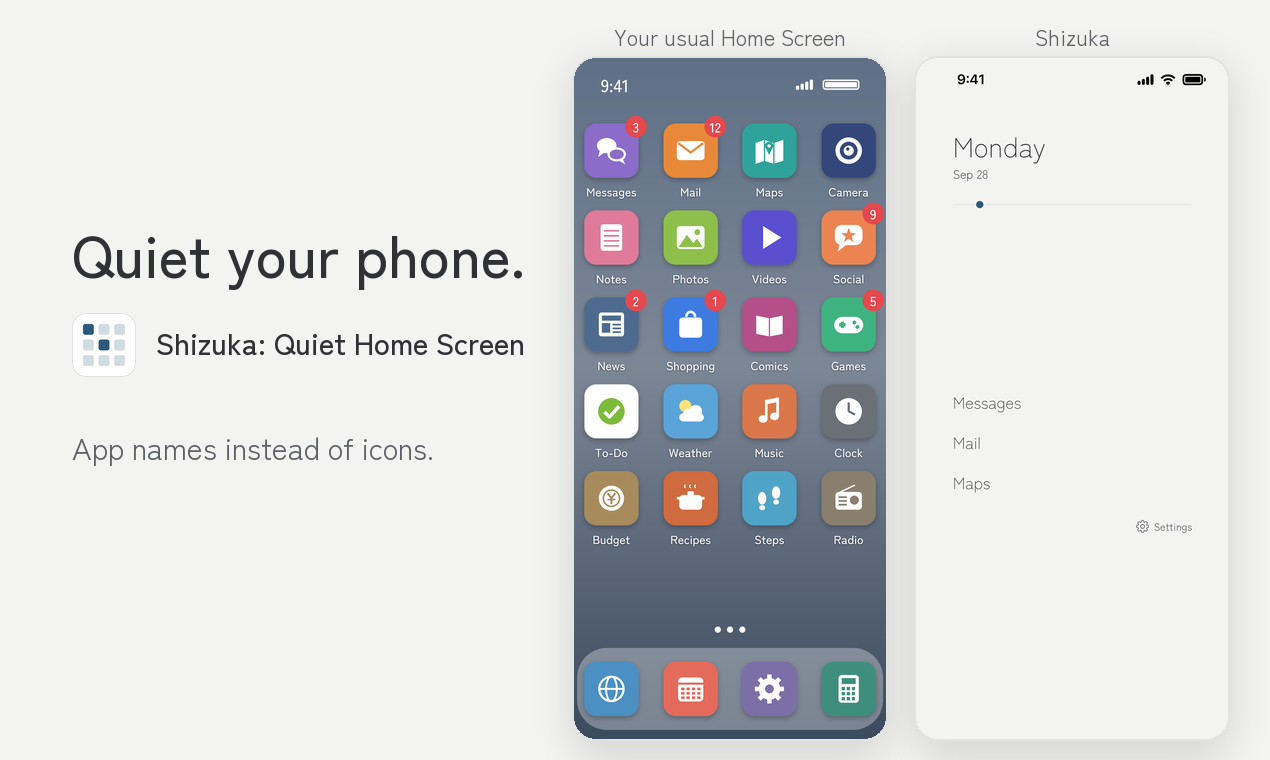
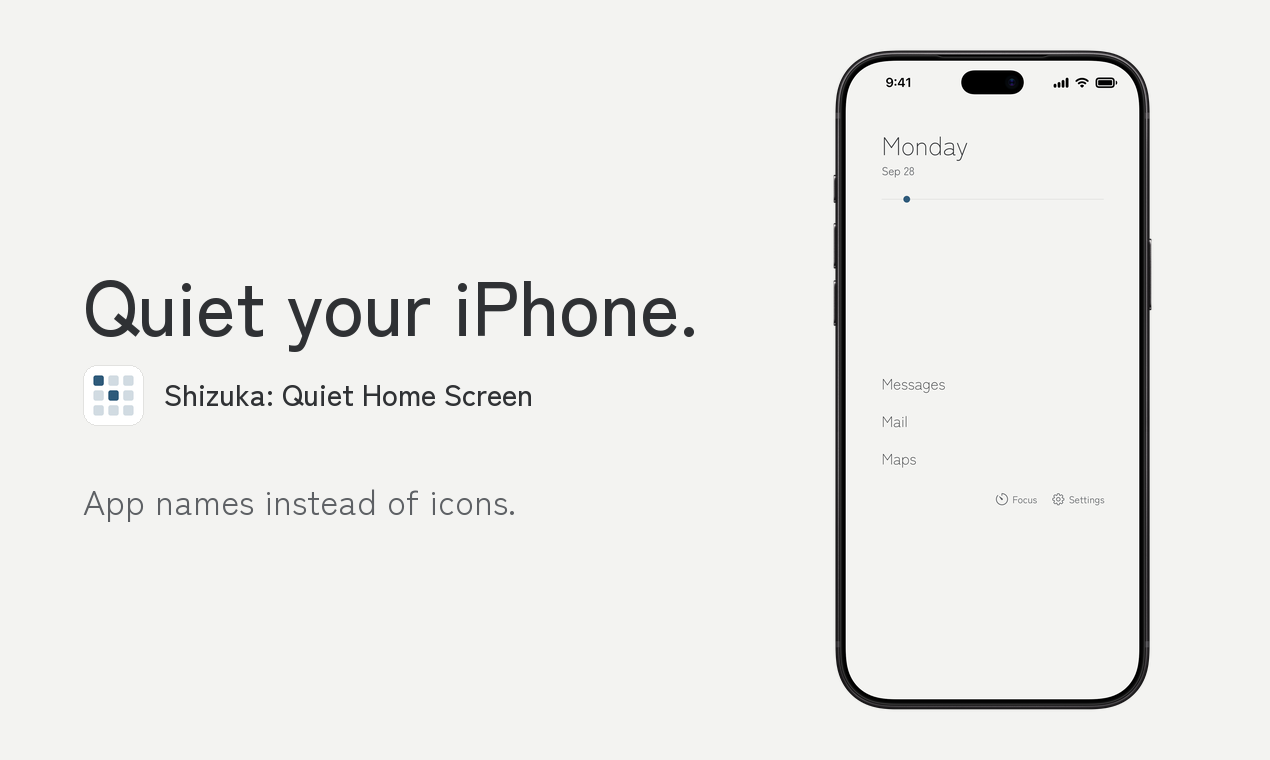
RD-44: 共有画像と報道向けの画像を Apple の枠としずかの画面だけに差し替え、説明の文を直す(SH-14)
点検表 promo-rules v1 の G1・H1〜H3・P1・P3・T1・T3 に合わせる(本人の決定 2026-11-05 22時台「公開済みは画像だけ差し替える」)。
- og/ja.png・og/en.png・press/images/{ja,en}/01-before-after.jpg・press/images/gallery/01.png:
  架空のアイコンの格子・ドック・ページの点の「いつものホーム画面」との比べ絵をやめ、
  Apple 配布の Product Bezels(iPhone 18、切らない・傾けない・影なし、字は枠の横)に
  1.1 の描き直しの画面(10_home_free_store_day、状態バー満タン)だけを入れた
- 見出し「スマホを、静かに。」→「iPhone を、静かに。」、"Quiet your phone." → "Quiet your iPhone."(T2)
- 説明と OGP の文の「iOSアプリ」→「iPhone アプリ」、"the iOS app" → "the iPhone app"(T1)。規約・プライバシーの本文は変えない
- og:image:alt と報道向けの画像の説明を新しい絵に合わせ、「架空の絵」の注記を外した
- 規約とポリシーの頁(日英)と報道向けの頁に、iPhone・App Store の商標の注記(T3)

diff --git a/docs/press/index.html b/docs/press/index.html
@@ -14,7 +14,7 @@
 <meta property="og:image" content="https://ryodevapp.github.io/shizuka-home/og/ja.png">
 <meta property="og:image:width" content="1200">
 <meta property="og:image:height" content="630">
-<meta property="og:image:alt" content="いつものホーム画面と、アプリの名前だけを並べたしずかなホーム画面">
+<meta property="og:image:alt" content="iPhone の中の、アプリの名前だけを並べたしずかなホーム画面の画面">
 <meta property="og:locale" content="ja_JP">
 <meta name="twitter:card" content="summary_large_image">
 <style>
@@ -103,20 +103,18 @@ video { width: 100%; max-width: 270px; height: auto; display: block; margin: 0 0
 <video src="video/before-after-en.mp4" controls muted playsinline preload="metadata"></video>
 <p><a href="video/before-after-en.mp4" download>ダウンロード / Download</a></p>
 <h2>告知の画像(日本語、1080×1350)</h2>
-<p>「いつものホーム画面」の絵は、説明のために作った架空のものです。</p>
 <div class="grid">
-<a href="images/ja/01-before-after.jpg"><img src="images/ja/01-before-after.jpg" alt="いつものホーム画面と、アプリの名前だけを並べたしずかなホーム画面" loading="lazy"></a>
+<a href="images/ja/01-before-after.jpg"><img src="images/ja/01-before-after.jpg" alt="iPhone の中の、アプリの名前だけを並べたしずかなホーム画面の画面" loading="lazy"></a>
 <a href="images/ja/03-review.jpg"><img src="images/ja/03-review.jpg" alt="使った時間をふりかえる画面。連続記録や順位は出しません" loading="lazy"></a>
 </div>
 <h2>Launch images (English, 1080×1350)</h2>
-<p>The "usual Home Screen" is an illustration.</p>
 <div class="grid">
-<a href="images/en/01-before-after.jpg"><img src="images/en/01-before-after.jpg" alt="A usual Home Screen next to Shizuka, which shows app names only" loading="lazy"></a>
+<a href="images/en/01-before-after.jpg"><img src="images/en/01-before-after.jpg" alt="Shizuka on iPhone, which shows app names only" loading="lazy"></a>
 <a href="images/en/03-review.jpg"><img src="images/en/03-review.jpg" alt="The Review screen, with no streaks or rankings" loading="lazy"></a>
 </div>
 <h2>Gallery (English, 1270×760)</h2>
 <div class="grid">
-<a href="images/gallery/01.png"><img src="images/gallery/01.png" alt="Quiet your phone: a usual Home Screen next to Shizuka" loading="lazy"></a>
+<a href="images/gallery/01.png"><img src="images/gallery/01.png" alt="Quiet your iPhone: Shizuka shows app names instead of icons" loading="lazy"></a>
 <a href="images/gallery/02.png"><img src="images/gallery/02.png" alt="A breath before an app opens, with Not now and Open" loading="lazy"></a>
 <a href="images/gallery/03.png"><img src="images/gallery/03.png" alt="Just names, no icons: the widget keeps its color day and night" loading="lazy"></a>
 <a href="images/gallery/04.png"><img src="images/gallery/04.png" alt="Look back, without streaks or rankings" loading="lazy"></a>
@@ -124,5 +122,7 @@ video { width: 100%; max-width: 270px; height: auto; display: block; margin: 0 0
 </div>
 <p>サムネイル / Thumbnail (240×240)</p>
 <div class="grid"><a href="images/gallery/thumbnail.png"><img src="images/gallery/thumbnail.png" alt="Shizuka thumbnail" loading="lazy"></a></div>
+<p>iPhone は、米国および他の国や地域で登録された Apple Inc. の商標です。App Store は、米国およびその他の国で登録された Apple Inc. のサービスマークです。</p>
+<p>iPhone is a trademark of Apple Inc., registered in the U.S. and other countries and regions. App Store is a service mark of Apple Inc., registered in the U.S. and other countries and regions.</p>
 </body>
 </html>

diff --git a/docs/index.html b/docs/index.html
@@ -4,7 +4,7 @@
 <meta charset="utf-8">
 <meta name="viewport" content="width=device-width, initial-scale=1">
 <title>しずかなホーム画面の規約とポリシー</title>
-<meta name="description" content="iOSアプリ「しずかなホーム画面」の利用規約、プライバシーポリシー、特定商取引法に基づく表記と、お問い合わせ先です。">
+<meta name="description" content="iPhone アプリ「しずかなホーム画面」の利用規約、プライバシーポリシー、特定商取引法に基づく表記と、お問い合わせ先です。">
 <link rel="canonical" href="https://ryodevapp.github.io/shizuka-home/">
 <link rel="alternate" hreflang="ja" href="https://ryodevapp.github.io/shizuka-home/">
 <link rel="alternate" hreflang="en" href="https://ryodevapp.github.io/shizuka-home/en/">
@@ -12,12 +12,12 @@
 <meta property="og:type" content="website">
 <meta property="og:site_name" content="しずかなホーム画面">
 <meta property="og:title" content="しずかなホーム画面の規約とポリシー">
-<meta property="og:description" content="iOSアプリ「しずかなホーム画面」の利用規約、プライバシーポリシー、特定商取引法に基づく表記と、お問い合わせ先です。">
+<meta property="og:description" content="iPhone アプリ「しずかなホーム画面」の利用規約、プライバシーポリシー、特定商取引法に基づく表記と、お問い合わせ先です。">
 <meta property="og:url" content="https://ryodevapp.github.io/shizuka-home/">
 <meta property="og:image" content="https://ryodevapp.github.io/shizuka-home/og/ja.png">
 <meta property="og:image:width" content="1200">
 <meta property="og:image:height" content="630">
-<meta property="og:image:alt" content="いつものホーム画面と、アプリの名前だけを並べたしずかなホーム画面">
+<meta property="og:image:alt" content="iPhone の中の、アプリの名前だけを並べたしずかなホーム画面の画面">
 <meta property="og:locale" content="ja_JP">
 <meta name="twitter:card" content="summary_large_image">
 <style>
@@ -40,7 +40,7 @@ pre { white-space: pre-wrap; word-break: break-word; font-size: 0.8rem; line-hei
 <body>
 <p class="lang"><a href="en/" hreflang="en" lang="en">English</a></p>
 <h1>しずかなホーム画面の規約とポリシー</h1>
-<p>iOSアプリケーション「しずかなホーム画面」の利用規約、プライバシーポリシー、特定商取引法に基づく表記です。</p>
+<p>iPhone アプリ「しずかなホーム画面」の利用規約、プライバシーポリシー、特定商取引法に基づく表記です。</p>
 <ul>
 <li><a href="terms/">利用規約</a></li>
 <li><a href="privacy/">プライバシーポリシー</a></li>
@@ -58,5 +58,6 @@ pre { white-space: pre-wrap; word-break: break-word; font-size: 0.8rem; line-hei
 </ul>
 <p>許諾の文の全文は<a href="licenses/">ライセンス</a>のページに載せています。</p>
 <p>最終更新日:2026年10月17日</p>
+<p>iPhone は、米国および他の国や地域で登録された Apple Inc. の商標です。App Store は、米国およびその他の国で登録された Apple Inc. のサービスマークです。</p>
 </body>
 </html>

diff --git a/docs/en/index.html b/docs/en/index.html
@@ -4,7 +4,7 @@
 <meta charset="utf-8">
 <meta name="viewport" content="width=device-width, initial-scale=1">
 <title>Shizuka: Quiet Home Screen — Terms and Policies</title>
-<meta name="description" content="Terms of Use, Privacy Policy and contact for the iOS app “Shizuka: Quiet Home Screen”.">
+<meta name="description" content="Terms of Use, Privacy Policy and contact for the iPhone app “Shizuka: Quiet Home Screen”.">
 <link rel="canonical" href="https://ryodevapp.github.io/shizuka-home/en/">
 <link rel="alternate" hreflang="ja" href="https://ryodevapp.github.io/shizuka-home/">
 <link rel="alternate" hreflang="en" href="https://ryodevapp.github.io/shizuka-home/en/">
@@ -12,12 +12,12 @@
 <meta property="og:type" content="website">
 <meta property="og:site_name" content="Shizuka: Quiet Home Screen">
 <meta property="og:title" content="Shizuka: Quiet Home Screen — Terms and Policies">
-<meta property="og:description" content="Terms of Use, Privacy Policy and contact for the iOS app “Shizuka: Quiet Home Screen”.">
+<meta property="og:description" content="Terms of Use, Privacy Policy and contact for the iPhone app “Shizuka: Quiet Home Screen”.">
 <meta property="og:url" content="https://ryodevapp.github.io/shizuka-home/en/">
 <meta property="og:image" content="https://ryodevapp.github.io/shizuka-home/og/en.png">
 <meta property="og:image:width" content="1270">
 <meta property="og:image:height" content="760">
-<meta property="og:image:alt" content="Your usual Home Screen next to Shizuka, which lists app names instead of icons">
+<meta property="og:image:alt" content="Shizuka on iPhone, which lists app names instead of icons">
 <meta property="og:locale" content="en_US">
 <meta name="twitter:card" content="summary_large_image">
 <style>
@@ -40,7 +40,7 @@ pre { white-space: pre-wrap; word-break: break-word; font-size: 0.8rem; line-hei
 <body>
 <p class="lang"><a href="../" hreflang="ja" lang="ja">日本語</a></p>
 <h1>Shizuka: Quiet Home Screen — Terms and Policies</h1>
-<p>This page collects the Terms of Use and the Privacy Policy for the iOS app "Shizuka: Quiet Home Screen".</p>
+<p>This page collects the Terms of Use and the Privacy Policy for the iPhone app "Shizuka: Quiet Home Screen".</p>
 <ul>
 <li><a href="terms/">Terms of Use</a></li>
 <li><a href="privacy/">Privacy Policy</a></li>
@@ -58,5 +58,6 @@ pre { white-space: pre-wrap; word-break: break-word; font-size: 0.8rem; line-hei
 </ul>
 <p>The full text of each license is on the <a href="https://ryodevapp.github.io/shizuka-home/licenses/">Licenses</a> page (in Japanese; the license texts themselves are in English).</p>
 <p>Last updated: October 17, 2026</p>
+<p>iPhone is a trademark of Apple Inc., registered in the U.S. and other countries and regions. App Store is a service mark of Apple Inc., registered in the U.S. and other countries and regions.</p>
 </body>
 </html>

diff --git a/docs/privacy/index.html b/docs/privacy/index.html
@@ -4,7 +4,7 @@
 <meta charset="utf-8">
 <meta name="viewport" content="width=device-width, initial-scale=1">
 <title>しずかなホーム画面のプライバシーポリシー</title>
-<meta name="description" content="iOSアプリ「しずかなホーム画面」のプライバシーポリシーです。">
+<meta name="description" content="iPhone アプリ「しずかなホーム画面」のプライバシーポリシーです。">
 <link rel="canonical" href="https://ryodevapp.github.io/shizuka-home/privacy/">
 <link rel="alternate" hreflang="ja" href="https://ryodevapp.github.io/shizuka-home/privacy/">
 <link rel="alternate" hreflang="en" href="https://ryodevapp.github.io/shizuka-home/en/privacy/">
@@ -12,12 +12,12 @@
 <meta property="og:type" content="website">
 <meta property="og:site_name" content="しずかなホーム画面">
 <meta property="og:title" content="しずかなホーム画面のプライバシーポリシー">
-<meta property="og:description" content="iOSアプリ「しずかなホーム画面」のプライバシーポリシーです。">
+<meta property="og:description" content="iPhone アプリ「しずかなホーム画面」のプライバシーポリシーです。">
 <meta property="og:url" content="https://ryodevapp.github.io/shizuka-home/privacy/">
 <meta property="og:image" content="https://ryodevapp.github.io/shizuka-home/og/ja.png">
 <meta property="og:image:width" content="1200">
 <meta property="og:image:height" content="630">
-<meta property="og:image:alt" content="いつものホーム画面と、アプリの名前だけを並べたしずかなホーム画面">
+<meta property="og:image:alt" content="iPhone の中の、アプリの名前だけを並べたしずかなホーム画面の画面">
 <meta property="og:locale" content="ja_JP">
 <meta name="twitter:card" content="summary_large_image">
 <style>

diff --git a/docs/licenses/index.html b/docs/licenses/index.html
@@ -4,17 +4,17 @@
 <meta charset="utf-8">
 <meta name="viewport" content="width=device-width, initial-scale=1">
 <title>しずかなホーム画面で使っているライセンス</title>
-<meta name="description" content="iOSアプリ「しずかなホーム画面」に入れている書体と表の、許諾の文の全文です。">
+<meta name="description" content="iPhone アプリ「しずかなホーム画面」に入れている書体と表の、許諾の文の全文です。">
 <link rel="canonical" href="https://ryodevapp.github.io/shizuka-home/licenses/">
 <meta property="og:type" content="website">
 <meta property="og:site_name" content="しずかなホーム画面">
 <meta property="og:title" content="しずかなホーム画面で使っているライセンス">
-<meta property="og:description" content="iOSアプリ「しずかなホーム画面」に入れている書体と表の、許諾の文の全文です。">
+<meta property="og:description" content="iPhone アプリ「しずかなホーム画面」に入れている書体と表の、許諾の文の全文です。">
 <meta property="og:url" content="https://ryodevapp.github.io/shizuka-home/licenses/">
 <meta property="og:image" content="https://ryodevapp.github.io/shizuka-home/og/ja.png">
 <meta property="og:image:width" content="1200">
 <meta property="og:image:height" content="630">
-<meta property="og:image:alt" content="いつものホーム画面と、アプリの名前だけを並べたしずかなホーム画面">
+<meta property="og:image:alt" content="iPhone の中の、アプリの名前だけを並べたしずかなホーム画面の画面">
 <meta property="og:locale" content="ja_JP">
 <meta name="twitter:card" content="summary_large_image">
 <style>

diff --git a/docs/terms/index.html b/docs/terms/index.html
@@ -4,7 +4,7 @@
 <meta charset="utf-8">
 <meta name="viewport" content="width=device-width, initial-scale=1">
 <title>しずかなホーム画面の利用規約</title>
-<meta name="description" content="iOSアプリ「しずかなホーム画面」の利用規約です。">
+<meta name="description" content="iPhone アプリ「しずかなホーム画面」の利用規約です。">
 <link rel="canonical" href="https://ryodevapp.github.io/shizuka-home/terms/">
 <link rel="alternate" hreflang="ja" href="https://ryodevapp.github.io/shizuka-home/terms/">
 <link rel="alternate" hreflang="en" href="https://ryodevapp.github.io/shizuka-home/en/terms/">
@@ -12,12 +12,12 @@
 <meta property="og:type" content="website">
 <meta property="og:site_name" content="しずかなホーム画面">
 <meta property="og:title" content="しずかなホーム画面の利用規約">
-<meta property="og:description" content="iOSアプリ「しずかなホーム画面」の利用規約です。">
+<meta property="og:description" content="iPhone アプリ「しずかなホーム画面」の利用規約です。">
 <meta property="og:url" content="https://ryodevapp.github.io/shizuka-home/terms/">
 <meta property="og:image" content="https://ryodevapp.github.io/shizuka-home/og/ja.png">
 <meta property="og:image:width" content="1200">
 <meta property="og:image:height" content="630">
-<meta property="og:image:alt" content="いつものホーム画面と、アプリの名前だけを並べたしずかなホーム画面">
+<meta property="og:image:alt" content="iPhone の中の、アプリの名前だけを並べたしずかなホーム画面の画面">
 <meta property="og:locale" content="ja_JP">
 <meta name="twitter:card" content="summary_large_image">
 <style>

diff --git a/docs/en/privacy/index.html b/docs/en/privacy/index.html
@@ -4,7 +4,7 @@
 <meta charset="utf-8">
 <meta name="viewport" content="width=device-width, initial-scale=1">
 <title>Shizuka: Quiet Home Screen — Privacy Policy</title>
-<meta name="description" content="Privacy Policy for the iOS app “Shizuka: Quiet Home Screen”.">
+<meta name="description" content="Privacy Policy for the iPhone app “Shizuka: Quiet Home Screen”.">
 <link rel="canonical" href="https://ryodevapp.github.io/shizuka-home/en/privacy/">
 <link rel="alternate" hreflang="ja" href="https://ryodevapp.github.io/shizuka-home/privacy/">
 <link rel="alternate" hreflang="en" href="https://ryodevapp.github.io/shizuka-home/en/privacy/">
@@ -12,12 +12,12 @@
 <meta property="og:type" content="website">
 <meta property="og:site_name" content="Shizuka: Quiet Home Screen">
 <meta property="og:title" content="Shizuka: Quiet Home Screen — Privacy Policy">
-<meta property="og:description" content="Privacy Policy for the iOS app “Shizuka: Quiet Home Screen”.">
+<meta property="og:description" content="Privacy Policy for the iPhone app “Shizuka: Quiet Home Screen”.">
 <meta property="og:url" content="https://ryodevapp.github.io/shizuka-home/en/privacy/">
 <meta property="og:image" content="https://ryodevapp.github.io/shizuka-home/og/en.png">
 <meta property="og:image:width" content="1270">
 <meta property="og:image:height" content="760">
-<meta property="og:image:alt" content="Your usual Home Screen next to Shizuka, which lists app names instead of icons">
+<meta property="og:image:alt" content="Shizuka on iPhone, which lists app names instead of icons">
 <meta property="og:locale" content="en_US">
 <meta name="twitter:card" content="summary_large_image">
 <style>

diff --git a/docs/en/terms/index.html b/docs/en/terms/index.html
@@ -4,7 +4,7 @@
 <meta charset="utf-8">
 <meta name="viewport" content="width=device-width, initial-scale=1">
 <title>Shizuka: Quiet Home Screen — Terms of Use</title>
-<meta name="description" content="Terms of Use for the iOS app “Shizuka: Quiet Home Screen”.">
+<meta name="description" content="Terms of Use for the iPhone app “Shizuka: Quiet Home Screen”.">
 <link rel="canonical" href="https://ryodevapp.github.io/shizuka-home/en/terms/">
 <link rel="alternate" hreflang="ja" href="https://ryodevapp.github.io/shizuka-home/terms/">
 <link rel="alternate" hreflang="en" href="https://ryodevapp.github.io/shizuka-home/en/terms/">
@@ -12,12 +12,12 @@
 <meta property="og:type" content="website">
 <meta property="og:site_name" content="Shizuka: Quiet Home Screen">
 <meta property="og:title" content="Shizuka: Quiet Home Screen — Terms of Use">
-<meta property="og:description" content="Terms of Use for the iOS app “Shizuka: Quiet Home Screen”.">
+<meta property="og:description" content="Terms of Use for the iPhone app “Shizuka: Quiet Home Screen”.">
 <meta property="og:url" content="https://ryodevapp.github.io/shizuka-home/en/terms/">
 <meta property="og:image" content="https://ryodevapp.github.io/shizuka-home/og/en.png">
 <meta property="og:image:width" content="1270">
 <meta property="og:image:height" content="760">
-<meta property="og:image:alt" content="Your usual Home Screen next to Shizuka, which lists app names instead of icons">
+<meta property="og:image:alt" content="Shizuka on iPhone, which lists app names instead of icons">
 <meta property="og:locale" content="en_US">
 <meta name="twitter:card" content="summary_large_image">
 <style>

diff --git a/docs/tokushoho/index.html b/docs/tokushoho/index.html
@@ -4,17 +4,17 @@
 <meta charset="utf-8">
 <meta name="viewport" content="width=device-width, initial-scale=1">
 <title>特定商取引法に基づく表記</title>
-<meta name="description" content="iOSアプリ「しずかなホーム画面」の特定商取引法に基づく表記です。">
+<meta name="description" content="iPhone アプリ「しずかなホーム画面」の特定商取引法に基づく表記です。">
 <link rel="canonical" href="https://ryodevapp.github.io/shizuka-home/tokushoho/">
 <meta property="og:type" content="website">
 <meta property="og:site_name" content="しずかなホーム画面">
 <meta property="og:title" content="しずかなホーム画面 — 特定商取引法に基づく表記">
-<meta property="og:description" content="iOSアプリ「しずかなホーム画面」の特定商取引法に基づく表記です。">
+<meta property="og:description" content="iPhone アプリ「しずかなホーム画面」の特定商取引法に基づく表記です。">
 <meta property="og:url" content="https://ryodevapp.github.io/shizuka-home/tokushoho/">
 <meta property="og:image" content="https://ryodevapp.github.io/shizuka-home/og/ja.png">
 <meta property="og:image:width" content="1200">
 <meta property="og:image:height" content="630">
-<meta property="og:image:alt" content="いつものホーム画面と、アプリの名前だけを並べたしずかなホーム画面">
+<meta property="og:image:alt" content="iPhone の中の、アプリの名前だけを並べたしずかなホーム画面の画面">
 <meta property="og:locale" content="ja_JP">
 <meta name="twitter:card" content="summary_large_image">
 <style>

diff --git a/docs/help/index.html b/docs/help/index.html
@@ -17,7 +17,7 @@
 <meta property="og:image" content="https://ryodevapp.github.io/shizuka-home/og/ja.png">
 <meta property="og:image:width" content="1200">
 <meta property="og:image:height" content="630">
-<meta property="og:image:alt" content="いつものホーム画面と、アプリの名前だけを並べたしずかなホーム画面">
+<meta property="og:image:alt" content="iPhone の中の、アプリの名前だけを並べたしずかなホーム画面の画面">
 <meta property="og:locale" content="ja_JP">
 <meta name="twitter:card" content="summary_large_image">
 <style>

diff --git a/docs/en/help/index.html b/docs/en/help/index.html
@@ -17,7 +17,7 @@
 <meta property="og:image" content="https://ryodevapp.github.io/shizuka-home/og/en.png">
 <meta property="og:image:width" content="1270">
 <meta property="og:image:height" content="760">
-<meta property="og:image:alt" content="Your usual Home Screen next to Shizuka, which lists app names instead of icons">
+<meta property="og:image:alt" content="Shizuka on iPhone, which lists app names instead of icons">
 <meta property="og:locale" content="en_US">
 <meta name="twitter:card" content="summary_large_image">
 <style>
